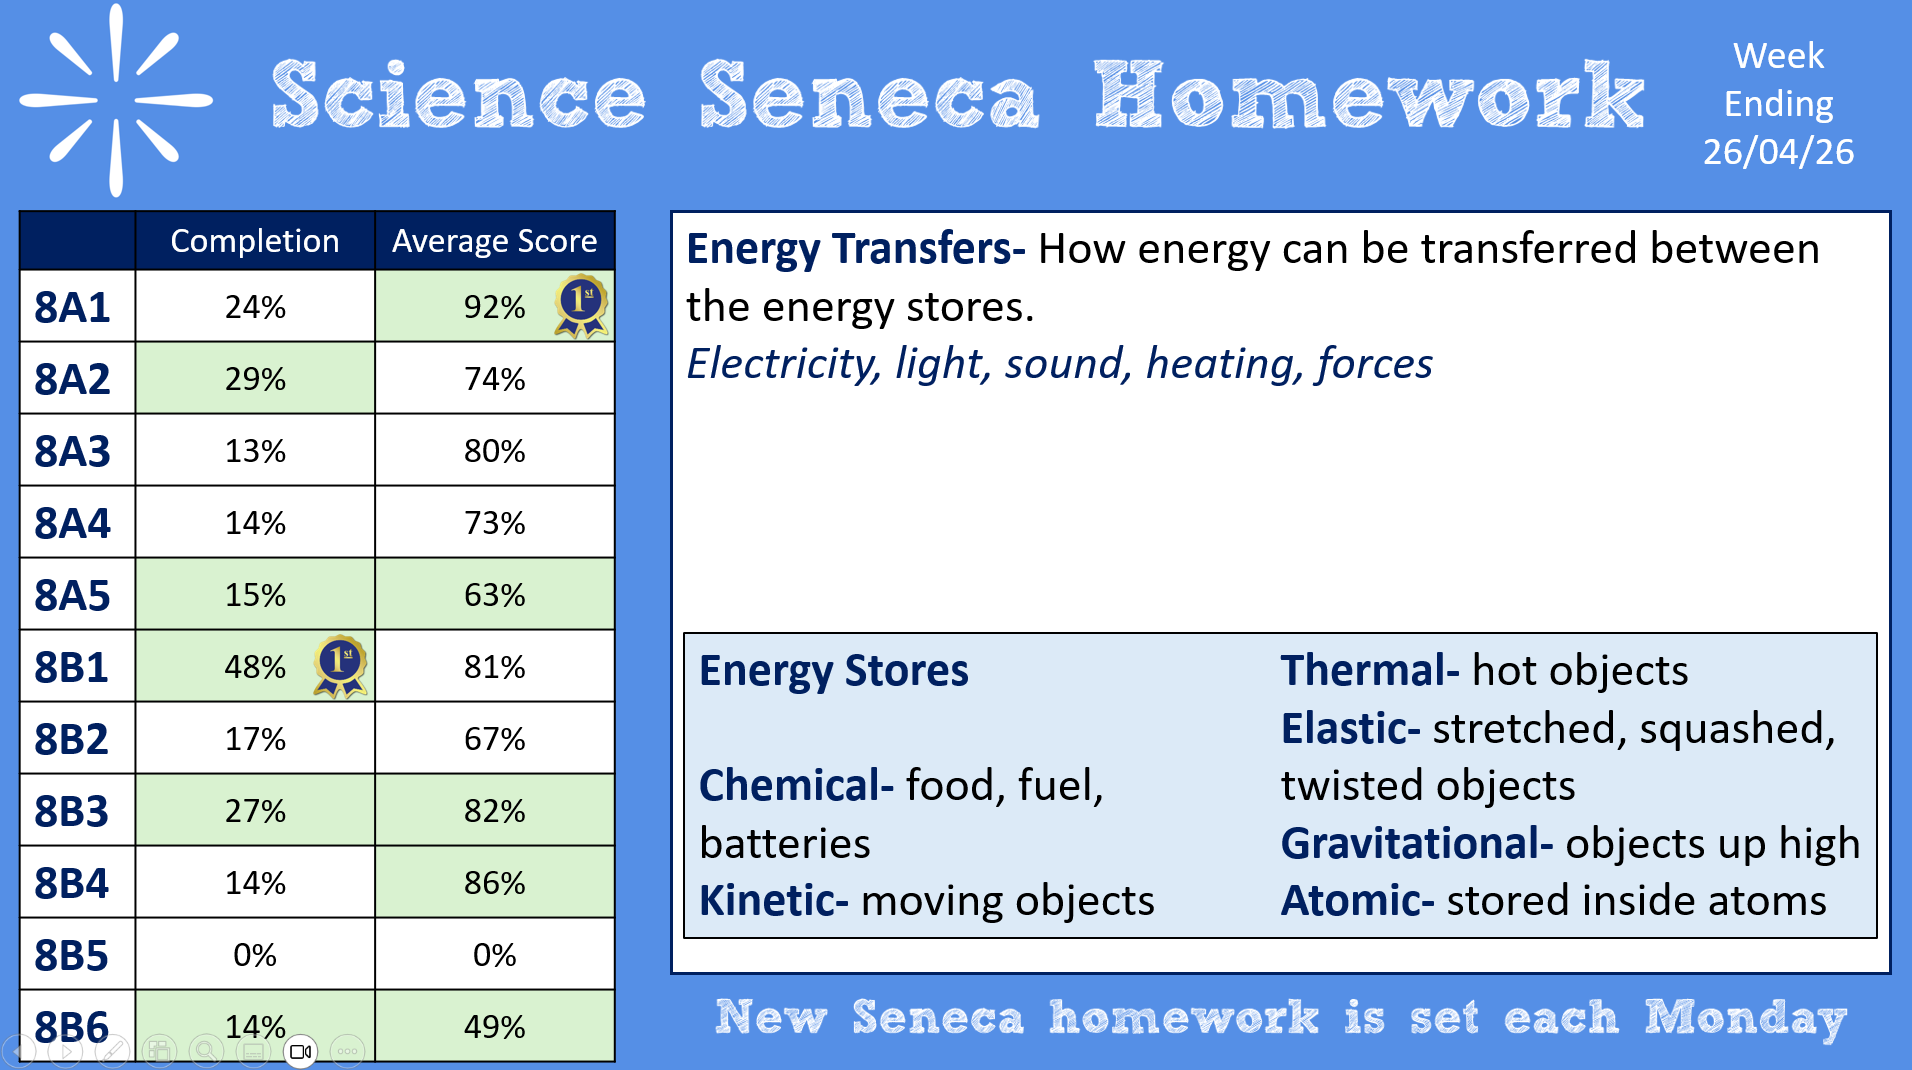
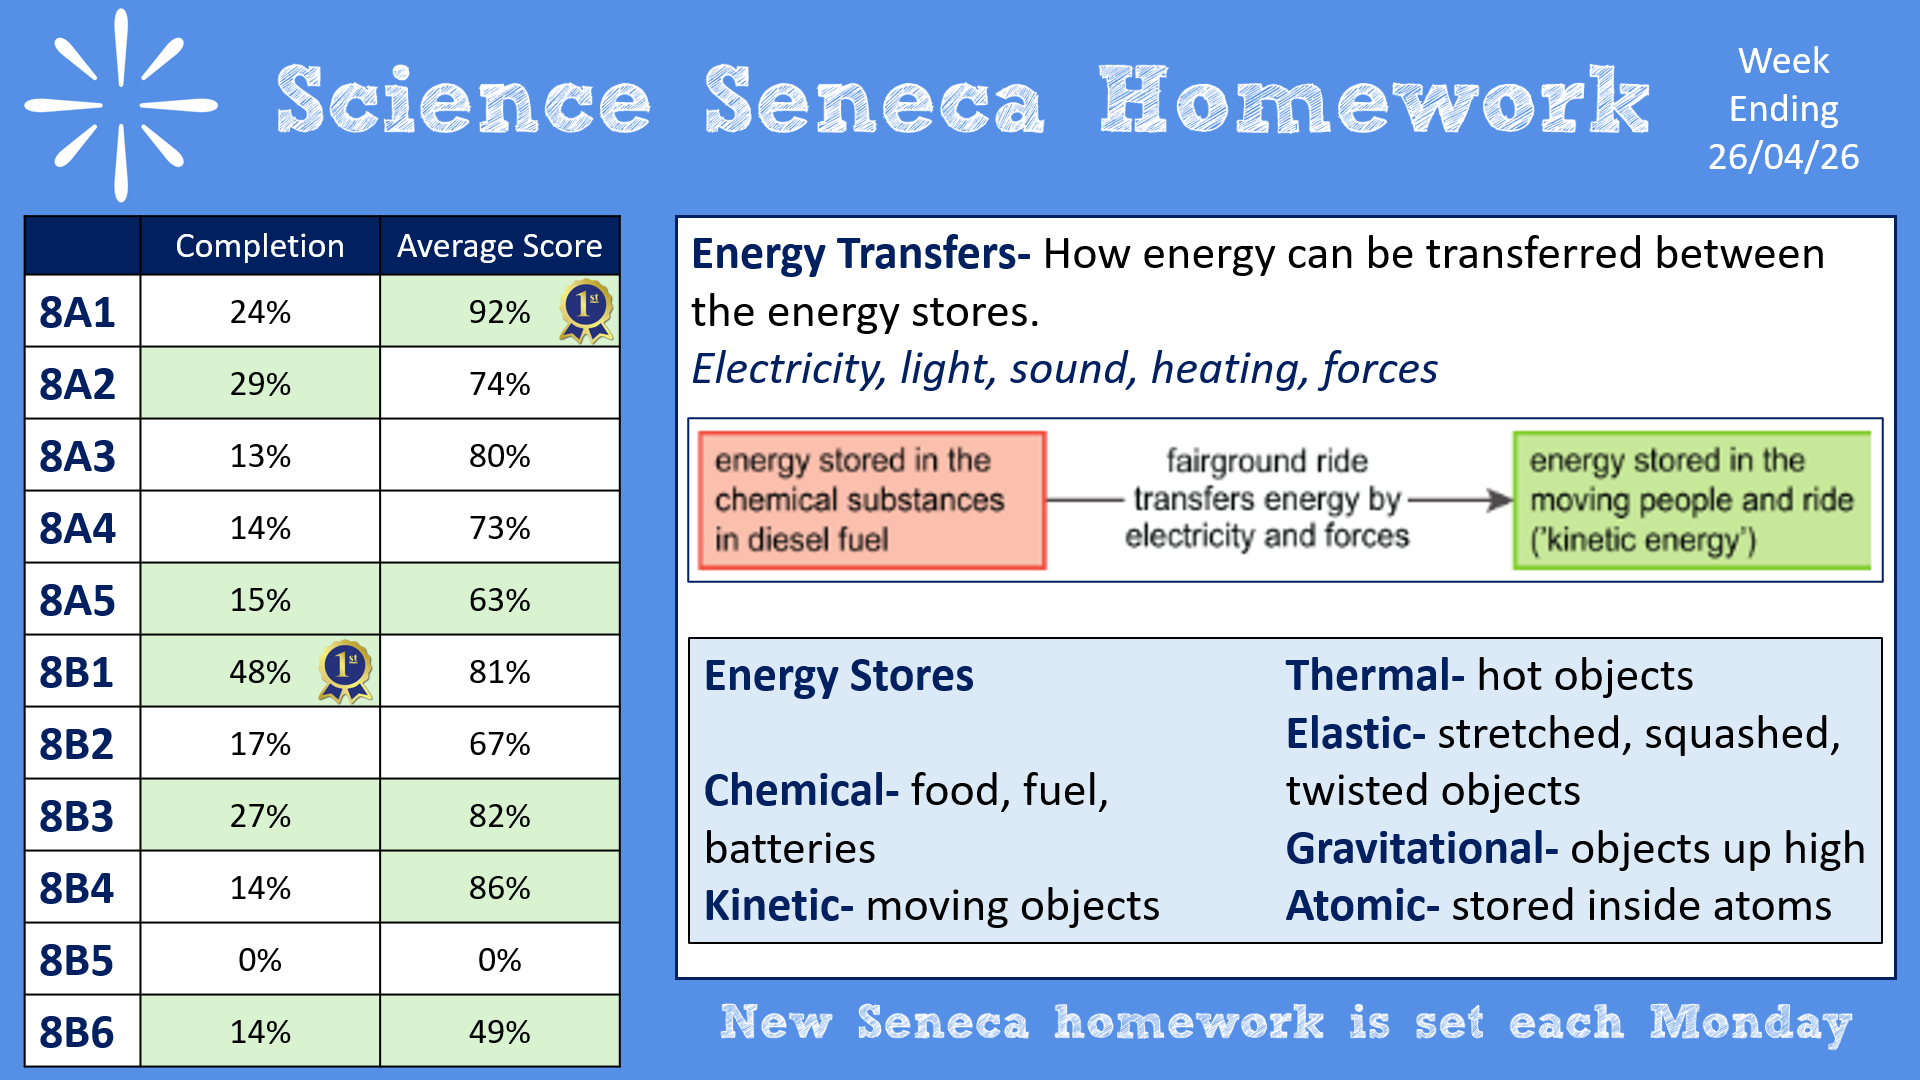
lesson homework updated

diff --git a/Lesson-adaptations.html b/Lesson-adaptations.html
@@ -86,9 +86,11 @@
     <img src="images/lesson-adaptations/lesson-adaptations-1.png" style=" width: 50%; margin-top: 100px; margin-bottom: 200px;" alt="task - habitats">
 </div>
 
-<!--<div style=" text-align: center;">-->
-<!--    <img src="images/lesson-variation-y7/lesson-variation-2.png" style=" width: 60%; margin-top: 10px; margin-bottom: 10px;" alt="variation task">-->
-<!--</div>-->
+<h2>What do you think the word adaptations means?</h2>
+
+<div style=" text-align: center;">
+    <img src="images/lesson-adaptations/lesson-adaptations-2.png" style=" width: 60%; margin-top: 600px; margin-bottom: 10px;" alt="adaptations definition">
+</div>
 
 <!--<div style=" text-align: center;">-->
 <!--    <img src="images/lesson-variation-y7/lesson-variation-3.png" style=" width: 60%; margin-top: 10px; margin-bottom: 200px;" alt="variation types">-->

diff --git a/index7.html b/index7.html
@@ -212,6 +212,22 @@
 <h1>KS3 year 7</h1>
 
 <div style=" text-align: center;">
+    <img src="images/seneca-7-11.png" style=" width: 1000px; height: 800;" alt="seneca results year 7">
+</div>
+
+<div style=" text-align: center;">
+    <img src="images/seneca-7-10.png" style=" width: 1000px; height: 800;" alt="seneca results year 7">
+</div>
+
+<div style=" text-align: center;">
+    <img src="images/seneca-7-9.png" style=" width: 1000px; height: 800;" alt="seneca results year 7">
+</div>
+
+<div style=" text-align: center;">
+    <img src="images/seneca-7-8.png" style=" width: 1000px; height: 800;" alt="seneca results year 7">
+</div>
+
+<div style=" text-align: center;">
     <img src="images/seneca-7-7.png" style=" width: 1000px; height: 800;" alt="seneca results year 7">
 </div>
 

diff --git a/index8.html b/index8.html
@@ -201,6 +201,22 @@
 <h1>KS3 year 8</h1>
 
 <div style=" text-align: center;">
+    <img src="images/seneca-8-11.png" style=" width: 1000px; height: 800;" alt="seneca results year 7">
+</div>
+
+<div style=" text-align: center;">
+    <img src="images/seneca-8-10.png" style=" width: 1000px; height: 800;" alt="seneca results year 7">
+</div>
+
+<div style=" text-align: center;">
+    <img src="images/seneca-8-9.png" style=" width: 1000px; height: 800;" alt="seneca results year 7">
+</div>
+
+<div style=" text-align: center;">
+    <img src="images/seneca-8-8.png" style=" width: 1000px; height: 800;" alt="seneca results year 7">
+</div>
+
+<div style=" text-align: center;">
     <img src="images/seneca-8-7.png" style=" width: 1000px; height: 800;" alt="seneca results year 7">
 </div>
 
